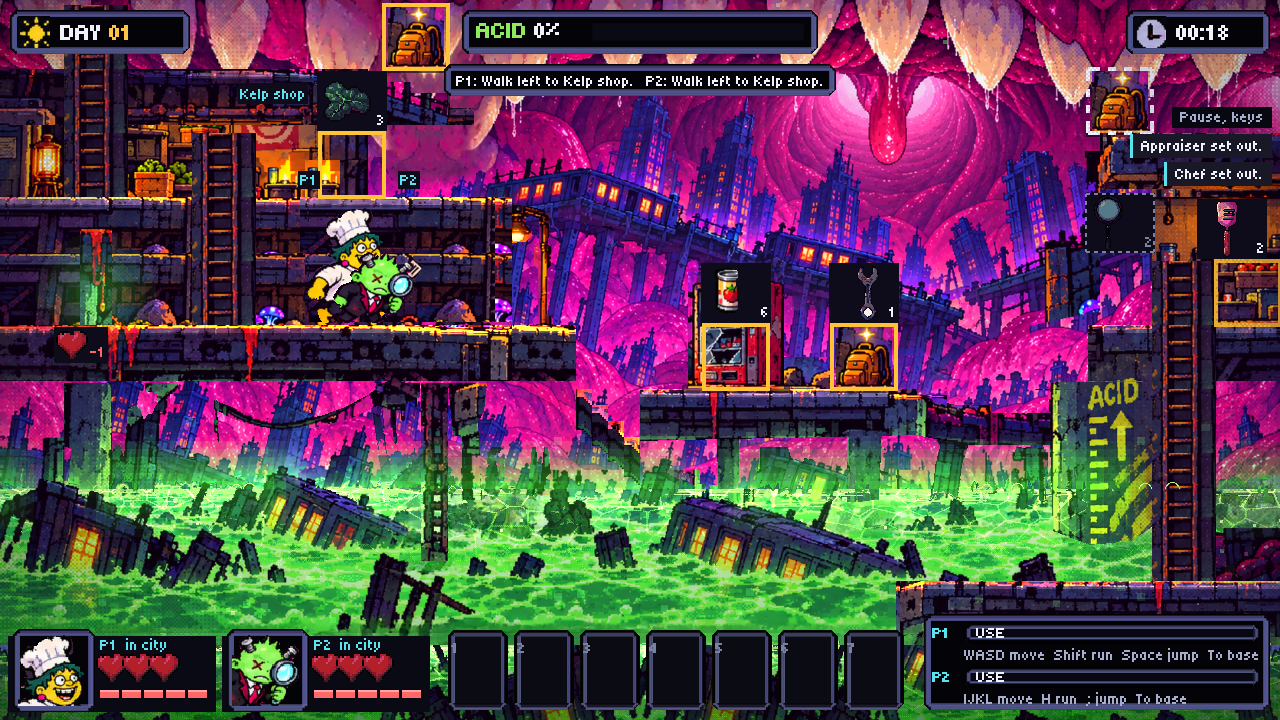
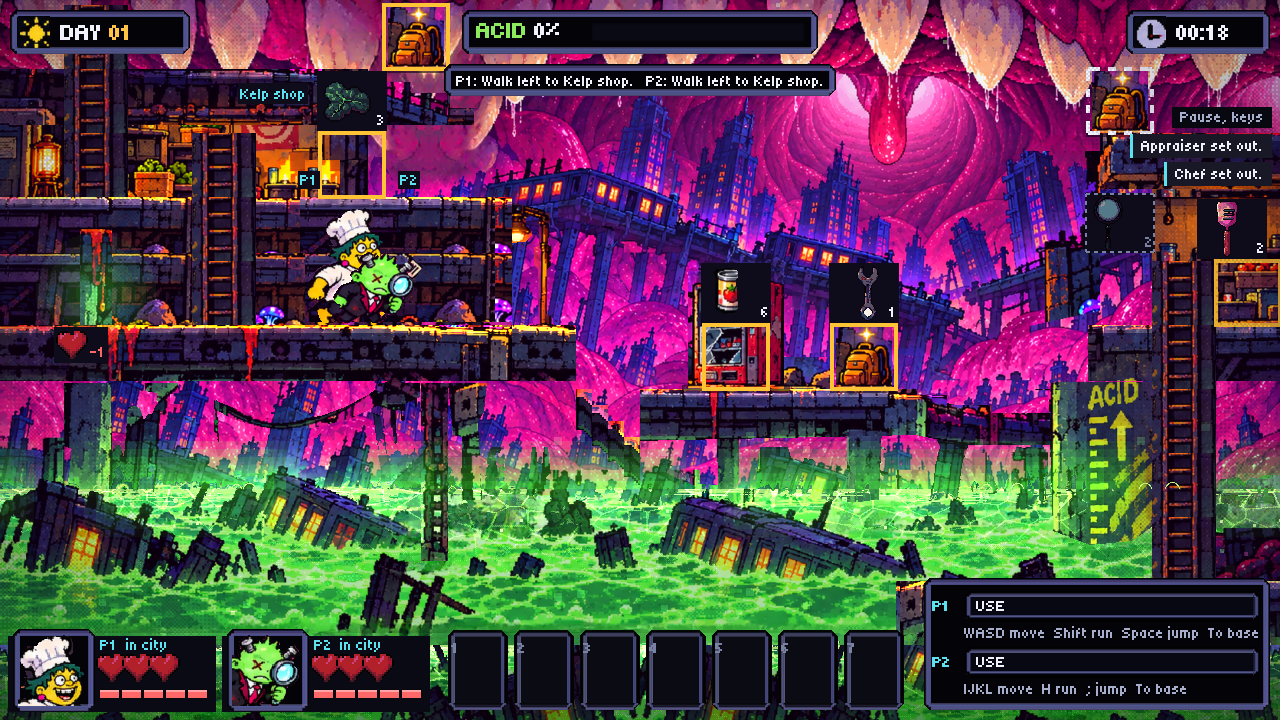
docs: sync the verified two-player interface captures

Changed region(s): [[0.7188, 0.7944, 1.0, 0.9778]]

diff --git a/project/levels/monster_mouth_escape/art/README.md b/project/levels/monster_mouth_escape/art/README.md
@@ -63,6 +63,6 @@ Each picture is cut from the mockup at the screen's size where the first city sc
 
 - Panel, button and bag-slot borders are cuts of the same 1280×720 mockup. Their interiors are cleared of baked words and pictures, and the scenery outside their corners is transparent. The native nine-pixel corners stay fixed; repeated edge strips adapt to each screen's content without enlarging the borders. Small gauge troughs remain drawn on whole pixels.
 - The original bag pictures map to existing IDs: mushroom → Mushroom 4; the can with a tomato on its label → Tomato 1; fish → Fish 2; pickle jar → Pickles 5. No item, recipe or inventory rule changes.
-- Seven framed slots replace the mockup's six. Both actors retain status, three health hearts, stamina and tool status; damage has its own line. The action area retains current action names and the two humans' movement controls. Runtime text, Tiny5's grid and minimum size, clicks, tips, logs and cooking details remain.
+- Seven framed slots replace the mockup's six. Both actors retain status, three health hearts, stamina and tool status; damage has its own line. The action area retains current action names and the two humans' movement controls. Its two-player card is 136 pixels high, with taller buttons and separate key lines so the native borders stand clear of the words. Runtime text, Tiny5's grid and minimum size, clicks, tips, logs and cooking details remain.
 - The original source and its SHA256, cut coordinates, silhouettes and policy are recorded in the spec, manifest and provenance. The other icons use their existing raw sources, rather than enlarging earlier runtime PNGs. No new raster was generated for this stage.
 - Evidence: [source beside first city](../../../../docs/architecture/evidence/survival/192-mockup-beside-city.png), source left and captured city right at 1280×720 each; [interface close-ups](../../../../docs/architecture/evidence/survival/192-interface-closeup-2x.png), top source, top capture, bottom source, bottom capture at 2×; [all twenty-one icons](../../../../docs/architecture/evidence/survival/192-icons-3x.png), at 3× in manifest order, seven across. The first-city capture uses seed 11 and the capture harness's pinned clock.
